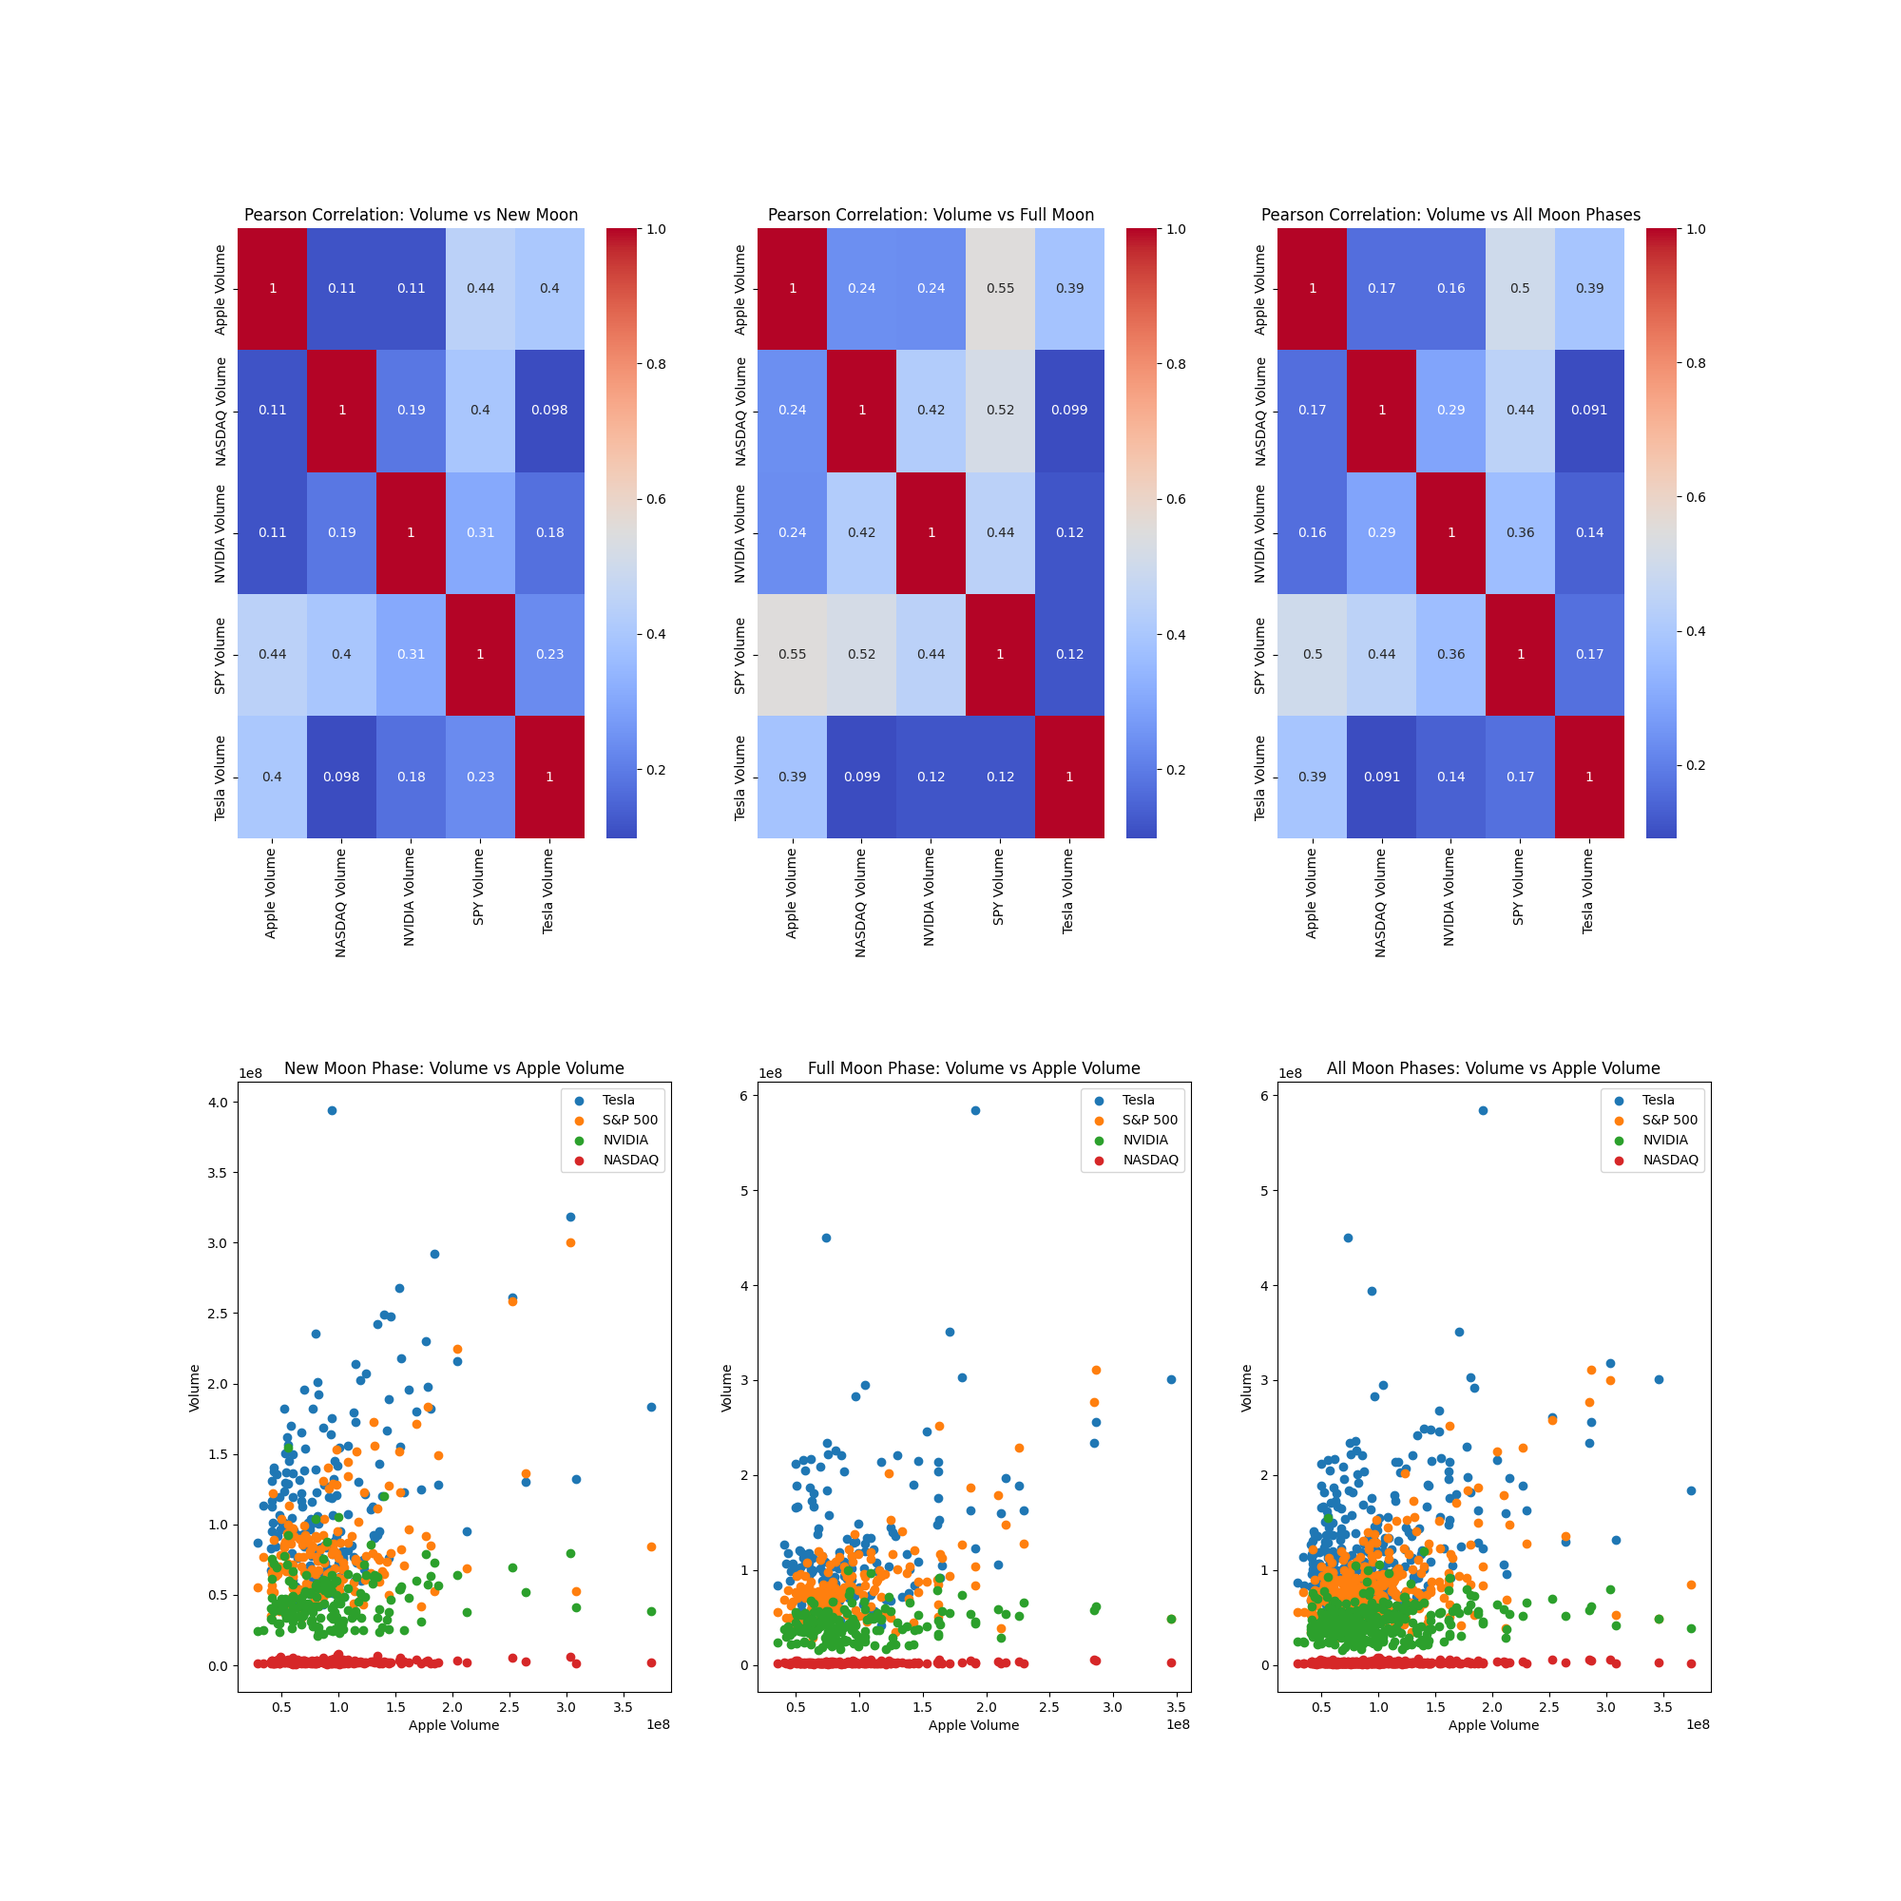
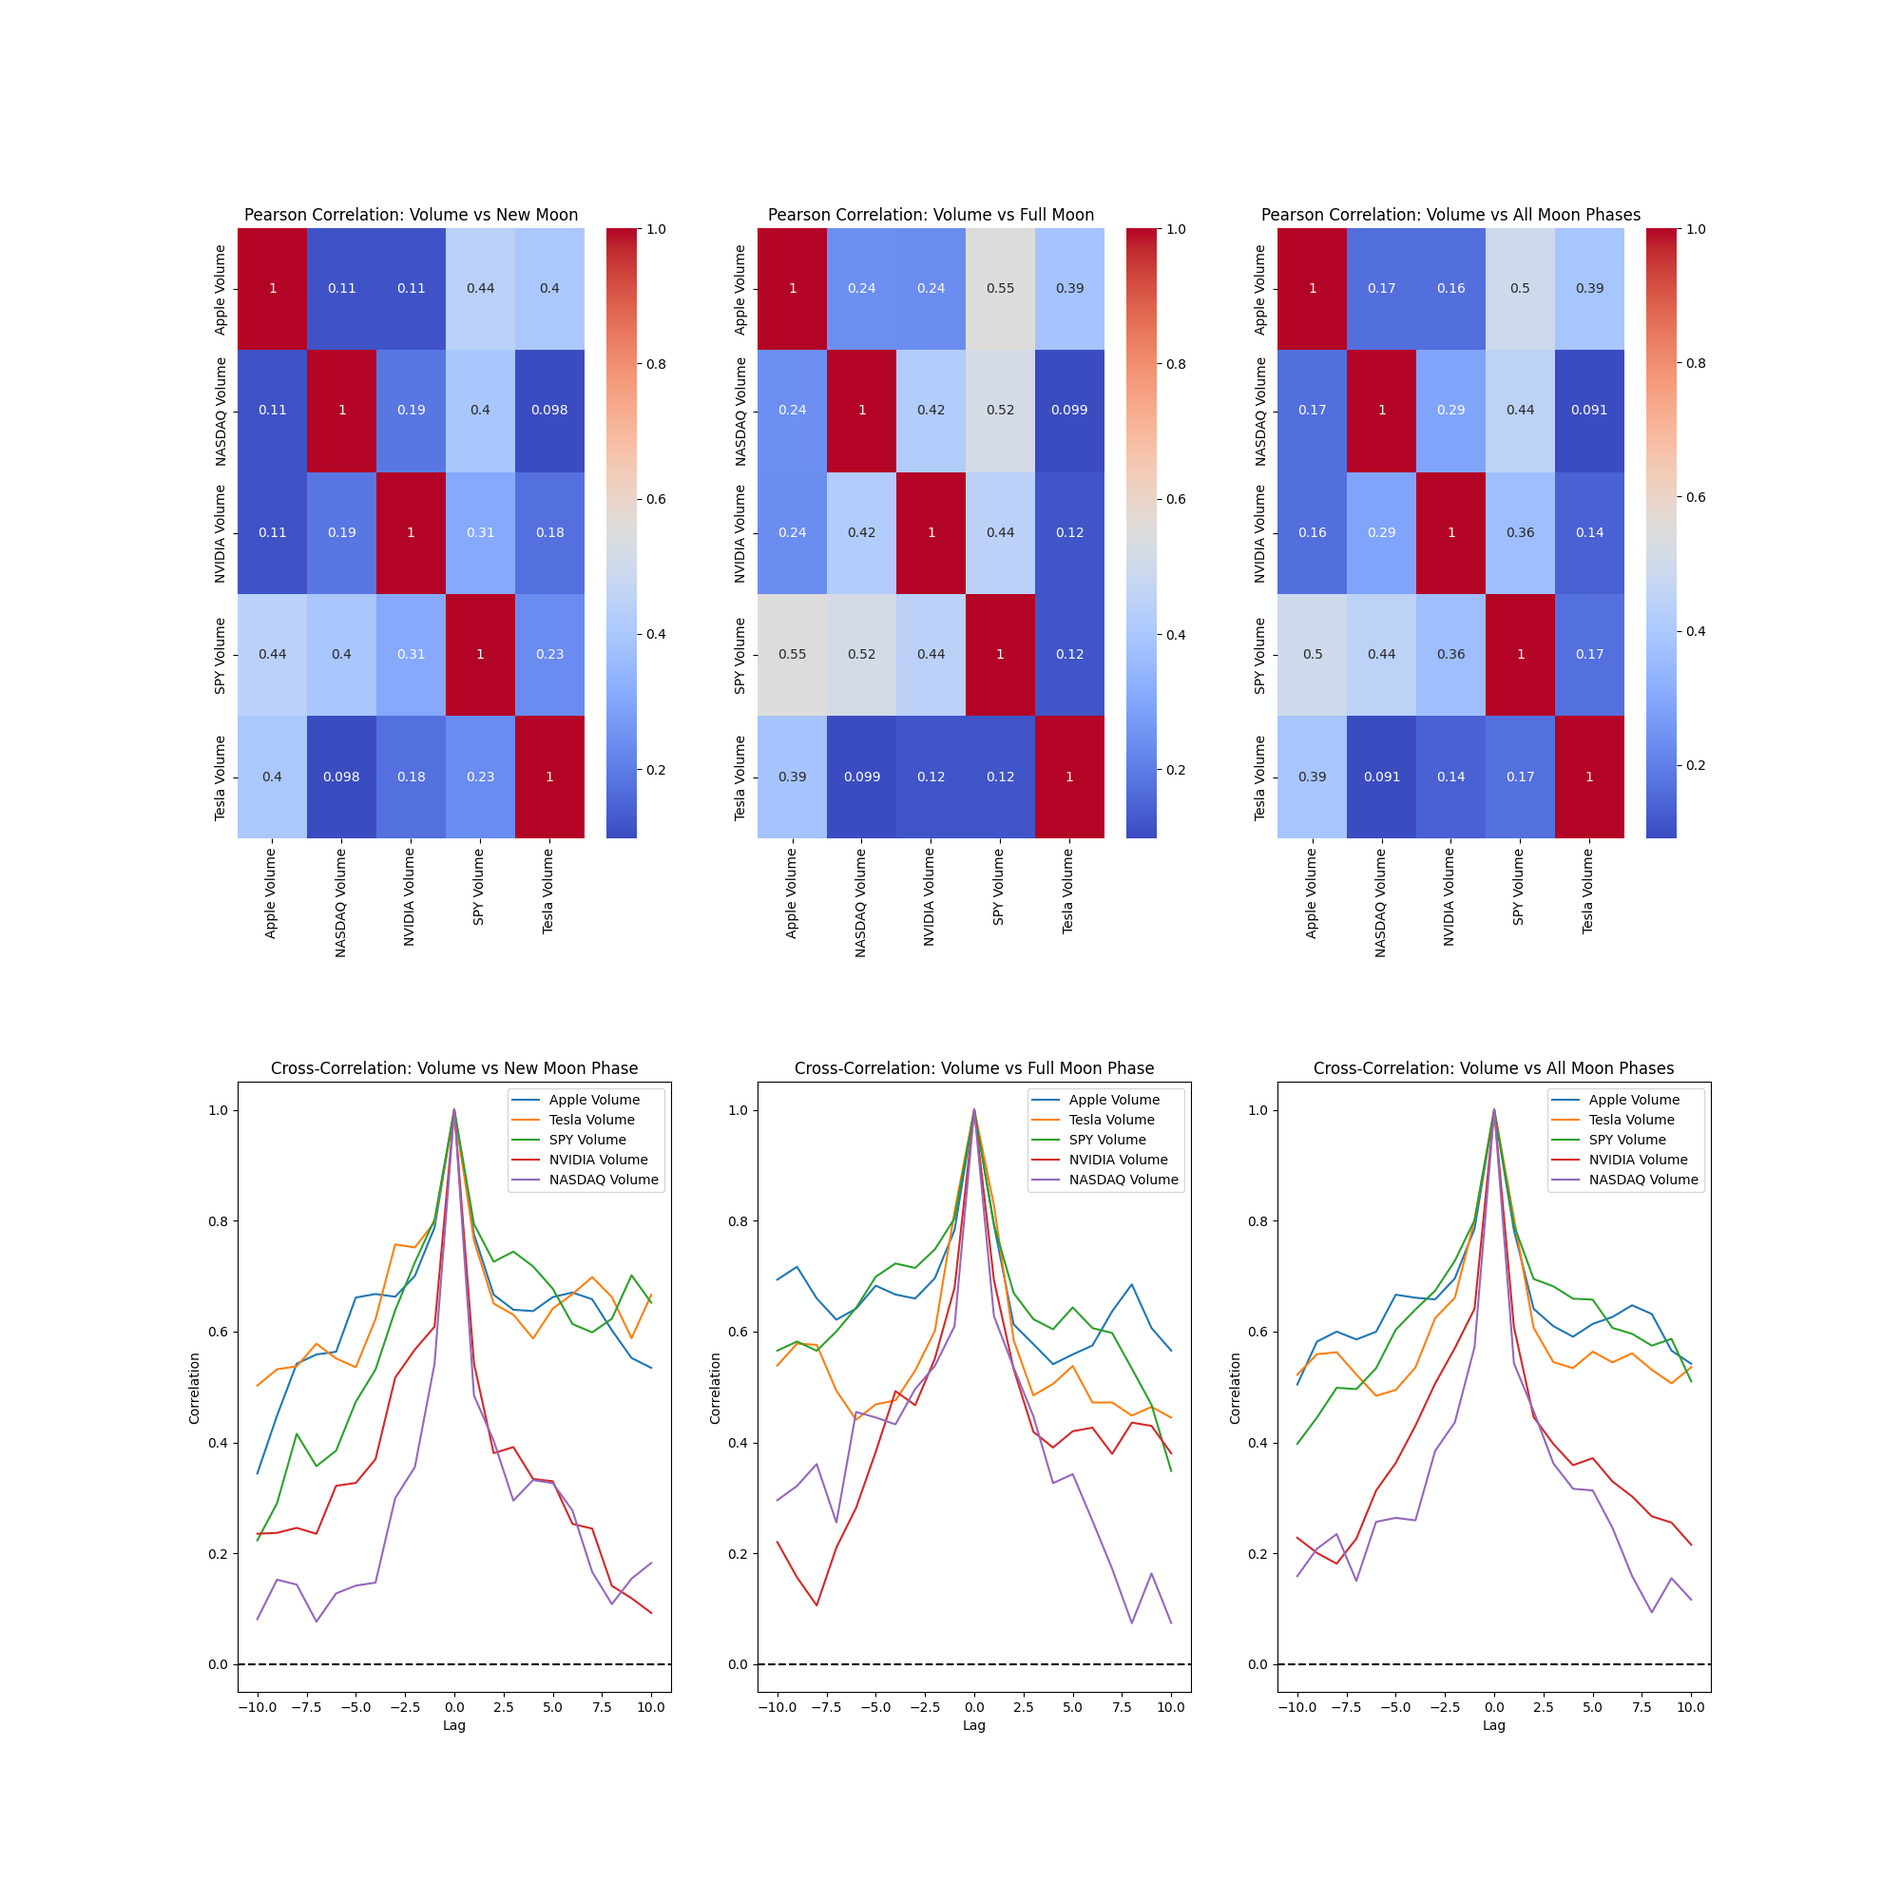
updated data
dropped the N/A values

diff --git a/analysis_files/Emilio/volume_moon_correlation_visuals.py b/analysis_files/Emilio/volume_moon_correlation_visuals.py
@@ -20,14 +20,17 @@ from datetime import datetime
 import pandas as pd
 import seaborn as sns
 from pandas.plotting import register_matplotlib_converters
+from pathlib import Path
+import statsmodels.api as sm
+import scipy.stats as stats
 
 # File paths of the CSV files
-tesla_file = '../LunarPhaseStockExploration/data/tesla20190101.csv'
-spy_file = '../LunarPhaseStockExploration/data/spy20190101.csv'
-nvidia_file = '../LunarPhaseStockExploration/data/nvidia20190101.csv'
-nasdaq_file = '../LunarPhaseStockExploration/data/nasdaq20190101.csv'
-moon_phases_file = '../LunarPhaseStockExploration/data/moon_phases.csv'
-apple_file = '../LunarPhaseStockExploration/data/apple20190101.csv'
+tesla_file = Path(__file__).parent.parent.parent / "data" / "tesla.csv"
+spy_file = Path(__file__).parent.parent.parent / "data" / "spy.csv"
+nvidia_file = Path(__file__).parent.parent.parent / "data" / "nvidia.csv"
+nasdaq_file = Path(__file__).parent.parent.parent / "data" / "nasdaq.csv"
+moon_phases_file = Path(__file__).parent.parent.parent / "data" / "moon_phases.csv"
+apple_file = Path(__file__).parent.parent.parent / "data" / "apple.csv"
 
 # Read the stock data and moon data CSV files
 df_tesla = pd.read_csv(tesla_file)
@@ -159,6 +162,7 @@ fig2, ([ax7, ax8, ax9], [ax10, ax11, ax12]) = plt.subplots(2, 3, figsize=(20, 20
 
 def pearson_coorelation_visual_new_moon_heatwave(): # Visualize the correlation between the new moon phase and all stocks with the heatwave visual of Pearson's correlation coefficent
     new_moon_data = df_combined[df_combined['Moon Phase'] == 'New Moon'] # Filter the combined DataFrame for the new moon phase
+    new_moon_data = new_moon_data.dropna(subset=['Apple Volume', 'NASDAQ Volume', 'NVIDIA Volume', 'SPY Volume', 'Tesla Volume'])
     correlation_matrix_pearson = new_moon_data[['Apple Volume', 'NASDAQ Volume', 'NVIDIA Volume', 'SPY Volume', 'Tesla Volume']].corr(method='pearson') # Calculate the correlation matrix for the new moon phase using Pearson's correlation coefficient
     sns.heatmap(correlation_matrix_pearson, annot=True, cmap='coolwarm', ax=ax7) # Plot the correlation matrix as a heatmap
     ax7.set_title("Pearson Correlation: Volume vs New Moon")
@@ -166,8 +170,9 @@ pearson_coorelation_visual_new_moon_heatwave()
 
 def pearson_coorelation_visual_full_moon_heatwave(): # Visualize the correlation between the full moon phase and all stocks with the heatwave visual of Pearson's correlation coefficent
     full_moon_data = df_combined[df_combined['Moon Phase'] == 'Full Moon'] # Filter the combined DataFrame for the new moon phase
+    full_moon_data = full_moon_data.dropna(subset=['Apple Volume', 'NASDAQ Volume', 'NVIDIA Volume', 'SPY Volume', 'Tesla Volume'])
     correlation_matrix_pearson = full_moon_data[['Apple Volume', 'NASDAQ Volume', 'NVIDIA Volume', 'SPY Volume', 'Tesla Volume']].corr(method='pearson') # Calculate the correlation matrix for the new moon phase using Pearson's correlation coefficient
-    sns.heatmap(correlation_matrix_pearson, annot=True, cmap='coolwarm', ax=ax8) # Plot the correlation matrix as a heatmap
+    sns.heatmap(correlation_matrix_pearson, annot=True, cmap='coolwarm', ax=ax8) # Plot the correlation matrix as a heatmap, red color -> positive correlation, white color -> neutral correlation and blue color -> negative correlation
     ax8.set_title("Pearson Correlation: Volume vs Full Moon")
 pearson_coorelation_visual_full_moon_heatwave()
 
@@ -175,51 +180,11 @@ def pearson_correlation_visual_all_moonphases_heatwave(): # Visualize the correl
     # Filter the combined DataFrame for the desired moon phases
     moon_phases_filter = ['New Moon', 'Waxing Crescent Moon', 'First Quarter Moon', 'Waxing Gibbous Moon', 'Full Moon', 'Waning Gibbous Moon', 'Last Quarter Moon', 'Waning Crescent Moon']
     filtered_data = df_combined[df_combined['Moon Phase'].isin(moon_phases_filter)]
+    filtered_data = filtered_data.dropna(subset=['Apple Volume', 'NASDAQ Volume', 'NVIDIA Volume', 'SPY Volume', 'Tesla Volume'])
     correlation_matrix_pearson = filtered_data[['Apple Volume', 'NASDAQ Volume', 'NVIDIA Volume', 'SPY Volume', 'Tesla Volume']].corr(method='pearson') # Calculate the correlation matrix for the new moon phase using Pearson's correlation coefficient
-    sns.heatmap(correlation_matrix_pearson, annot=True, cmap='coolwarm', ax=ax9) # Plot the correlation matrix as a heatmap
+    sns.heatmap(correlation_matrix_pearson, annot=True, cmap='coolwarm', ax=ax9) # Plot the correlation matrix as a heatmap, red color -> positive correlation, white color -> neutral correlation and blue color -> negative correlation
     ax9.set_title("Pearson Correlation: Volume vs All Moon Phases")
 pearson_correlation_visual_all_moonphases_heatwave()
-
-def pearson_coorelation_visual_new_moon_scatter(): # Visualize the correlation between the new moon phase and all stocks with the scatterplot visual of Pearson's correlation coefficent
-    new_moon_data = df_combined[df_combined['Moon Phase'] == 'New Moon'] # Filter the combined DataFrame for the new moon phase
-    ax10.scatter(new_moon_data['Apple Volume'], new_moon_data['Tesla Volume'], label='Tesla')
-    ax10.scatter(new_moon_data['Apple Volume'], new_moon_data['SPY Volume'], label='S&P 500')
-    ax10.scatter(new_moon_data['Apple Volume'], new_moon_data['NVIDIA Volume'], label='NVIDIA')
-    ax10.scatter(new_moon_data['Apple Volume'], new_moon_data['NASDAQ Volume'], label='NASDAQ')
-    ax10.set_xlabel('Apple Volume')
-    ax10.set_ylabel('Volume')
-    ax10.set_title('New Moon Phase: Volume vs Apple Volume')
-    ax10.legend()
-pearson_coorelation_visual_new_moon_scatter()
-
-def pearson_coorelation_visual_full_moon_scatter(): # Visualize the correlation between the full moon phase and all stocks with the scatterplot visual of Pearson's correlation coefficent
-    full_moon_data = df_combined[df_combined['Moon Phase'] == 'Full Moon'] # Filter the combined DataFrame for the full moon phase
-    ax11.scatter(full_moon_data['Apple Volume'], full_moon_data['Tesla Volume'], label='Tesla')
-    ax11.scatter(full_moon_data['Apple Volume'], full_moon_data['SPY Volume'], label='S&P 500')
-    ax11.scatter(full_moon_data['Apple Volume'], full_moon_data['NVIDIA Volume'], label='NVIDIA')
-    ax11.scatter(full_moon_data['Apple Volume'], full_moon_data['NASDAQ Volume'], label='NASDAQ')
-    ax11.set_xlabel('Apple Volume')
-    ax11.set_ylabel('Volume')
-    ax11.set_title('Full Moon Phase: Volume vs Apple Volume')
-    ax11.legend()
-pearson_coorelation_visual_full_moon_scatter()
-
-def pearson_correlation_visual_all_moonphases_scatter(): # Visualize the correlation between all moon phases and all stocks with the scatterplot visual of Pearson's correlation coefficent
-    # Filter the combined DataFrame for the desired moon phases
-    moon_phases_filter = ['New Moon', 'Waxing Crescent Moon', 'First Quarter Moon', 'Waxing Gibbous Moon', 'Full Moon', 'Waning Gibbous Moon', 'Last Quarter Moon', 'Waning Crescent Moon']
-    filtered_data = df_combined[df_combined['Moon Phase'].isin(moon_phases_filter)]
-    ax12.scatter(filtered_data['Apple Volume'], filtered_data['Tesla Volume'], label='Tesla')
-    ax12.scatter(filtered_data['Apple Volume'], filtered_data['SPY Volume'], label='S&P 500')
-    ax12.scatter(filtered_data['Apple Volume'], filtered_data['NVIDIA Volume'], label='NVIDIA')
-    ax12.scatter(filtered_data['Apple Volume'], filtered_data['NASDAQ Volume'], label='NASDAQ')
-    ax12.set_xlabel('Apple Volume')
-    ax12.set_ylabel('Volume')
-    ax12.set_title('All Moon Phases: Volume vs Apple Volume')
-    ax12.legend()
-pearson_correlation_visual_all_moonphases_scatter()
-
-# Create a figure with 6 subplots: cross-correlation plots and ...
-fig3, ([ax13, ax14, ax15], [ax16, ax17, ax18]) = plt.subplots(2, 3, figsize=(20, 20))
 
 register_matplotlib_converters()
 
@@ -227,6 +192,7 @@ def cross_correlation_visual_new_moon(): # Visualize the correlation between the
     def crosscorr(data1, data2, lag=0): # Function to calculate cross-correlation between two time series
         return data1.corr(data2.shift(lag))
     new_moon_phase = df_combined[df_combined['Moon Phase'] == 'New Moon'] # Select only the rows with new moon phase
+    new_moon_phase = new_moon_phase.dropna(subset=['Apple Volume', 'NASDAQ Volume', 'NVIDIA Volume', 'SPY Volume', 'Tesla Volume'])
     # Calculate cross-correlation between new moon phase and stock volumes
     cross_corr = {}
     lags = range(-10, 11)
@@ -234,18 +200,19 @@ def cross_correlation_visual_new_moon(): # Visualize the correlation between the
         cross_corr[column] = [crosscorr(new_moon_phase[column], df_combined[column], lag) for lag in lags]
     # Plot cross-correlation as a line graph
     for column, values in cross_corr.items():
-        ax13.plot(lags, values, label=column)
-    ax13.axhline(0, color='black', linestyle='--')
-    ax13.set_xlabel('Lag')
-    ax13.set_ylabel('Correlation')
-    ax13.set_title('Cross-Correlation: Volume vs New Moon Phase')
-    ax13.legend()
+        ax10.plot(lags, values, label=column)
+    ax10.axhline(0, color='black', linestyle='--')
+    ax10.set_xlabel('Lag')
+    ax10.set_ylabel('Correlation')
+    ax10.set_title('Cross-Correlation: Volume vs New Moon Phase')
+    ax10.legend()
 cross_correlation_visual_new_moon()
 
 def cross_correlation_visual_full_moon(): # Visualize the correlation between the full moon phase and all stocks with the cross-correlation graph
     def crosscorr(data1, data2, lag=0): # Function to calculate cross-correlation between two time series
         return data1.corr(data2.shift(lag))
     full_moon_phase = df_combined[df_combined['Moon Phase'] == 'Full Moon'] # Select only the rows with full moon phase
+    full_moon_phase = full_moon_phase.dropna(subset=['Apple Volume', 'NASDAQ Volume', 'NVIDIA Volume', 'SPY Volume', 'Tesla Volume'])
     # Calculate cross-correlation between full moon phase and stock volumes
     cross_corr = {}
     lags = range(-10, 11)
@@ -253,12 +220,12 @@ def cross_correlation_visual_full_moon(): # Visualize the correlation between th
         cross_corr[column] = [crosscorr(full_moon_phase[column], df_combined[column], lag) for lag in lags]
     # Plot cross-correlation as a line graph
     for column, values in cross_corr.items():
-        ax14.plot(lags, values, label=column)
-    ax14.axhline(0, color='black', linestyle='--')
-    ax14.set_xlabel('Lag')
-    ax14.set_ylabel('Correlation')
-    ax14.set_title('Cross-Correlation: Volume vs Full Moon Phase')
-    ax14.legend()
+        ax11.plot(lags, values, label=column)
+    ax11.axhline(0, color='black', linestyle='--')
+    ax11.set_xlabel('Lag')
+    ax11.set_ylabel('Correlation')
+    ax11.set_title('Cross-Correlation: Volume vs Full Moon Phase')
+    ax11.legend()
 cross_correlation_visual_full_moon()
 
 def cross_correlation_visual_all_moonphases(): # Visualize the correlation between all moon phases and all stocks with the cross-correlation graph
@@ -267,6 +234,7 @@ def cross_correlation_visual_all_moonphases(): # Visualize the correlation betwe
     # Filter the combined DataFrame for the desired moon phases
     moon_phases_filter = ['New Moon', 'Waxing Crescent Moon', 'First Quarter Moon', 'Waxing Gibbous Moon', 'Full Moon', 'Waning Gibbous Moon', 'Last Quarter Moon', 'Waning Crescent Moon']
     filtered_data = df_combined[df_combined['Moon Phase'].isin(moon_phases_filter)]
+    filtered_data = filtered_data.dropna(subset=['Apple Volume', 'NASDAQ Volume', 'NVIDIA Volume', 'SPY Volume', 'Tesla Volume'])
     # Calculate cross-correlation between all moon phases and stock volumes
     cross_corr = {}
     lags = range(-10, 11)
@@ -274,23 +242,26 @@ def cross_correlation_visual_all_moonphases(): # Visualize the correlation betwe
         cross_corr[column] = [crosscorr(filtered_data[column], df_combined[column], lag) for lag in lags]
     # Plot cross-correlation as a line graph
     for column, values in cross_corr.items():
-        ax15.plot(lags, values, label=column)
-    ax15.axhline(0, color='black', linestyle='--')
-    ax15.set_xlabel('Lag')
-    ax15.set_ylabel('Correlation')
-    ax15.set_title('Cross-Correlation: Volume vs All Moon Phases')
-    ax15.legend()
+        ax12.plot(lags, values, label=column)
+    ax12.axhline(0, color='black', linestyle='--')
+    ax12.set_xlabel('Lag')
+    ax12.set_ylabel('Correlation')
+    ax12.set_title('Cross-Correlation: Volume vs All Moon Phases')
+    ax12.legend()
 cross_correlation_visual_all_moonphases()
+
+# Create a figure with 6 subplots: cross-correlation plots and ...
+# fig3, ([ax13, ax14, ax15], [ax16, ax17, ax18]) = plt.subplots(2, 3, figsize=(20, 20))
 
 # Adjust the spacing between subplots
 fig.subplots_adjust(hspace=0.2, wspace=0.2)
 fig2.subplots_adjust(hspace=0.4, wspace=0.2)
-fig3.subplots_adjust(hspace=0.2, wspace=0.2)
+# fig3.subplots_adjust(hspace=0.2, wspace=0.2)
 
 # Save the figures
-fig.savefig("volume_plots.png")
+# fig.savefig("volume_plots.png")
 fig2.savefig("volume_plots_2.png")
-fig3.savefig("volume_plots_3.png")
+# fig3.savefig("volume_plots_3.png")
 
 # Show the figures
 plt.show()
